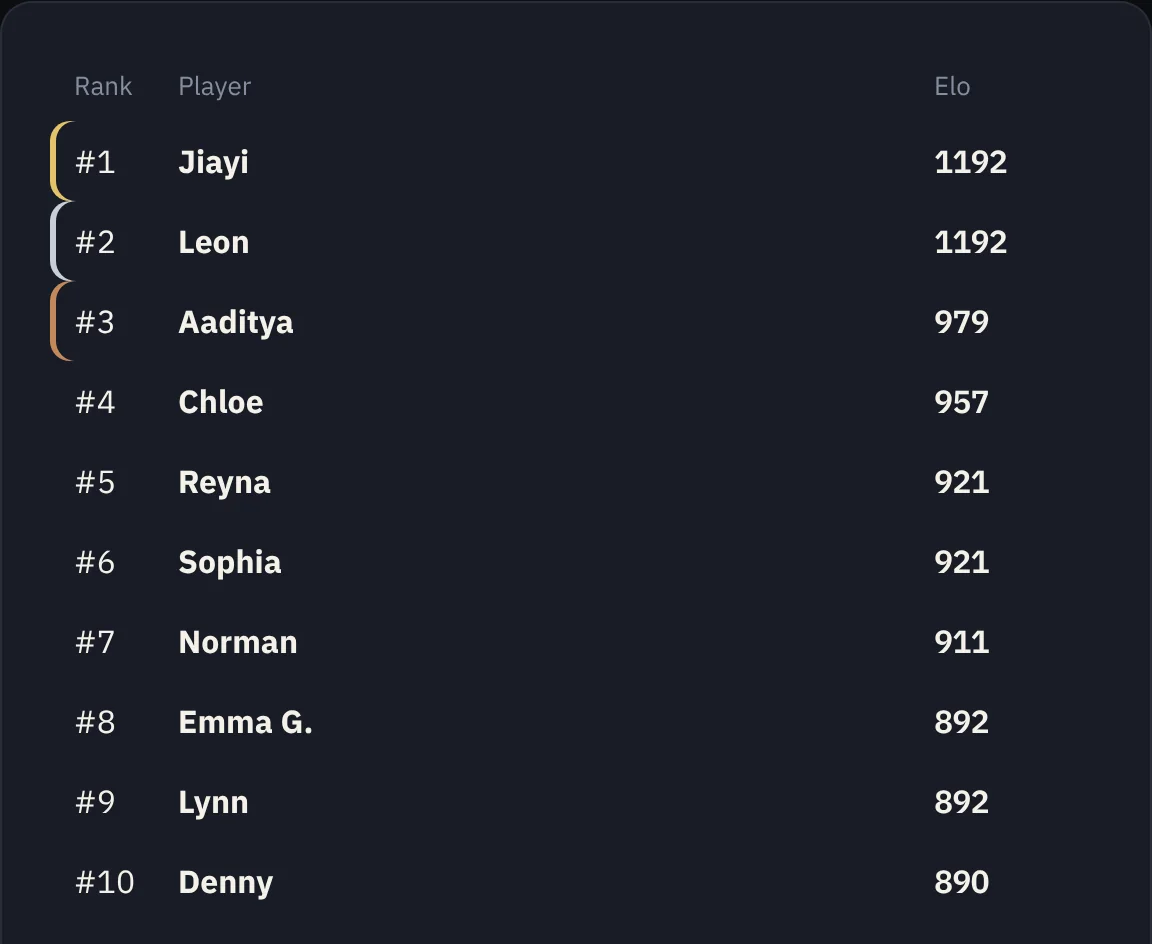
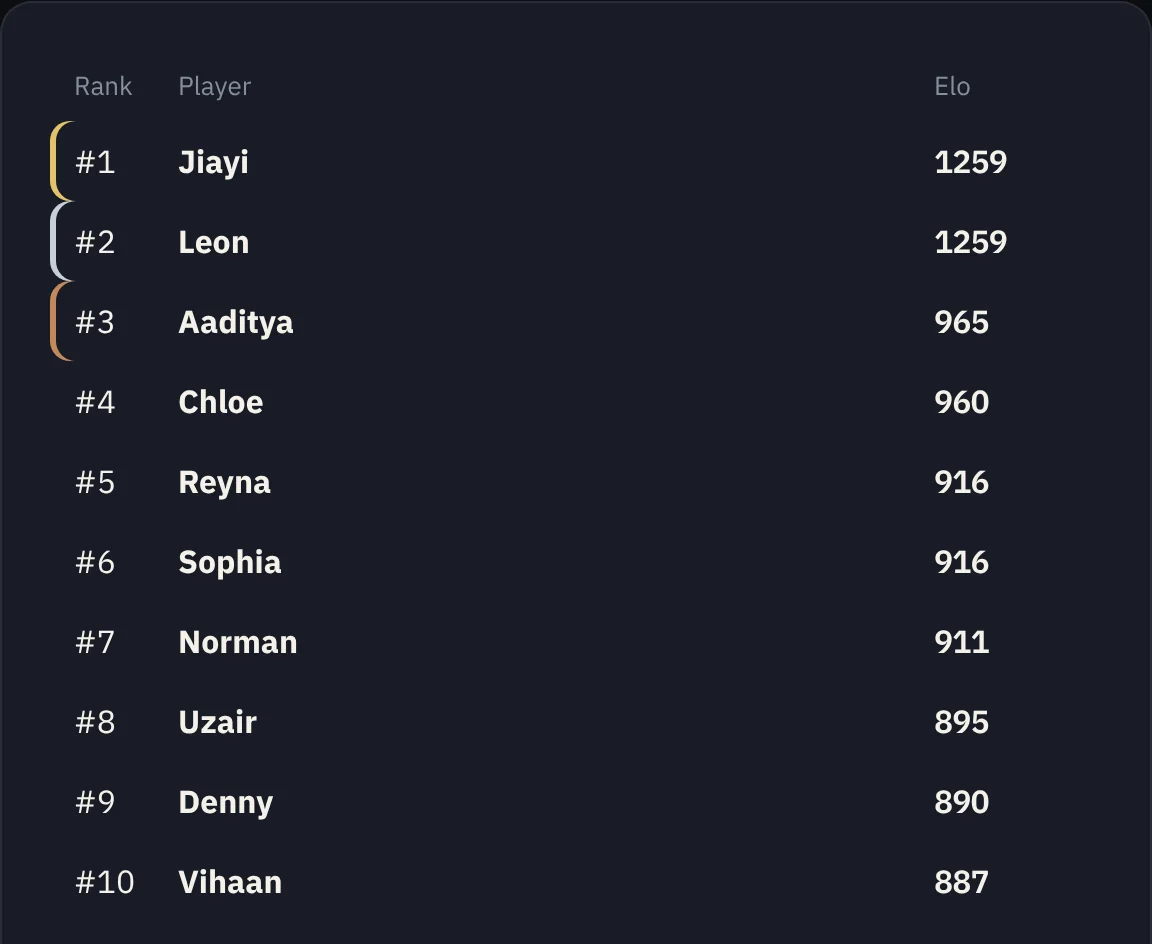
Retake the landing page screenshots with this season's data
The hero chart now runs through November 2026 and shows the tournament
ticks; every other capture shows current numbers and the Total card.

Claude-Session: https://claude.ai/code/session_01TYYdymDdHEusXAhUbedRey

diff --git a/src/pages/LandingPage.tsx b/src/pages/LandingPage.tsx
@@ -8,14 +8,14 @@ import '../styles/landing.css';
 
 /** Screens captured from the tracker itself (guest view), one per theme. */
 const SHOTS = {
-    chart: { w: 1400, h: 1048, alt: 'Elo history chart for the class of 2027, three seasons of lines, one per debater' },
+    chart: { w: 1400, h: 1048, alt: 'Elo history chart for the class of 2027, four seasons of lines, one per debater, with tournament dates marked along the bottom' },
     rankings: { w: 1152, h: 944, alt: 'The rankings board: active debaters ordered by Elo' },
     teams: { w: 1600, h: 787, alt: 'Team rankings: each partnership with its division, both partners and their average Elo' },
     profile: { w: 1600, h: 933, alt: 'A debater’s profile: current and peak Elo, tournaments, partners and an Elo history chart' },
     tournaments: { w: 1600, h: 1153, alt: 'The tournament list with its search box: each tournament’s entries and rating changes' },
     tournament: { w: 1300, h: 580, alt: 'NYSFL States results: every pair’s raw wins and each person’s rating change' },
-    phone: { w: 780, h: 1688, alt: 'The dashboard on a phone: three figures across and the top of the board' },
-    compare: { w: 1500, h: 953, alt: 'Analytics comparing two debaters’ Elo across three seasons' },
+    phone: { w: 780, h: 1688, alt: 'The dashboard on a phone: four figures in two rows and the top of the board' },
+    compare: { w: 1500, h: 953, alt: 'Analytics comparing two debaters’ Elo across four seasons' },
 } as const;
 type ShotName = keyof typeof SHOTS;
 
@@ -25,7 +25,7 @@ const PHONE_CROPS: Partial<Record<ShotName, { file: string; w: number; h: number
     rankings: { file: 'rankings-phone', w: 720, h: 771 },
     teams: { file: 'teams-phone', w: 720, h: 771 },
     profile: { file: 'profile-phone', w: 720, h: 1139 },
-    tournament: { file: 'tournament-phone', w: 720, h: 731 },
+    tournament: { file: 'tournament-phone', w: 720, h: 737 },
     tournaments: { file: 'tournaments-phone', w: 720, h: 1495 },
     compare: { file: 'compare-phone', w: 720, h: 730 },
 };
